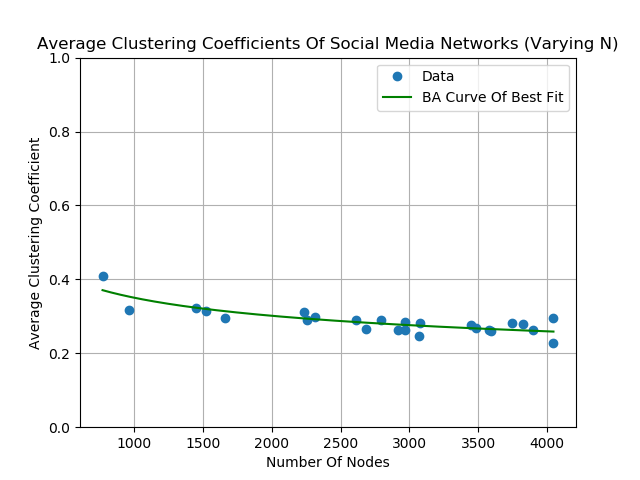
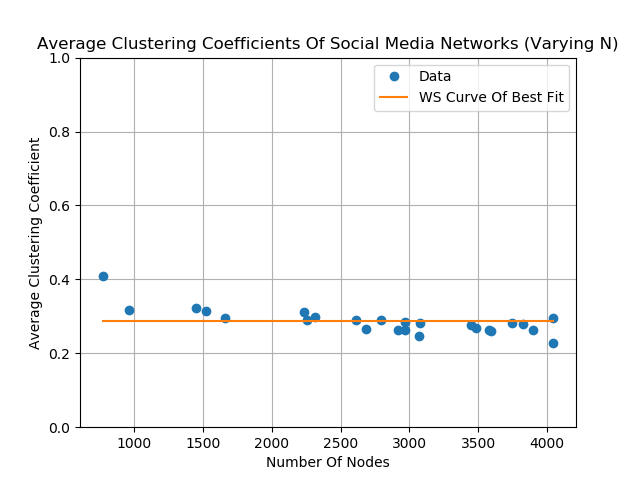
Final adjustments made in time for presentation. Only small world analysis and further analysis of the NetworkRepository data is required for the report.

diff --git a/NetworkRepository_AverageClusteringCoefficients.py b/NetworkRepository_AverageClusteringCoefficients.py
@@ -10,6 +10,9 @@ from SupportingFunctions import Distribution_Analysis_Functions
 from SupportingFunctions import Input_Output_Support_Functions as IO
 
 
+def FlatLine(xArray, yVal):
+    return (xArray*0 + yVal)
+
 #------------------------------------------------------------------------------------------
 # Important Arrays.
 #------------------------------------------------------------------------------------------
@@ -89,7 +92,7 @@ plt.figure()
 plt.grid()
 plt.plot(numberOfNodesArray, averageClusteringCoefficients, 'o', label='Data')
 
-
+'''
 # Fit a straight line to the data.
 estimateGradient = 0
 estimateIntercept = 0.3
@@ -101,16 +104,19 @@ popt, pcov = curve_fit(
                     (estimateGradient, estimateIntercept))
 xArray = np.linspace(numberOfNodesArray[0], numberOfNodesArray[len(numberOfNodesArray) - 1], 1000)
 #plt.plot(xArray, Distribution_Analysis_Functions.StraightLine(xArray, popt[0], popt[1]), label = 'WS Line Of Best Fit')
-
+'''
 def ExpectedScaleFreeClusteringCurve(xArray, constant, scalingFactor):
     return scalingFactor*(xArray**(-1*constant))
 
-popt_BA, pcov_BA = curve_fit(
-                    ExpectedScaleFreeClusteringCurve,
-                    numberArray_temp, clusteringArray_temp,
-                    (1, 1))
+numberArray_temp, clusteringArray_temp = IO.CleanRepeatedValuesOfNetworkRepData(numberOfNodesArray, averageClusteringCoefficients)
+xArray = np.linspace(numberOfNodesArray[0], numberOfNodesArray[len(numberOfNodesArray) - 1], 1000)
 
-plt.plot(xArray, ExpectedScaleFreeClusteringCurve(xArray, popt_BA[0], popt_BA[1]), c='g', label='BA Curve Of Best Fit')
+popt, pcov = curve_fit(
+                    FlatLine,
+                    numberArray_temp, clusteringArray_temp,
+                    0.1)
+
+plt.plot(xArray, FlatLine(xArray, popt[0]), label='WS Curve Of Best Fit')
 
 plt.ylim(0, 1)
 plt.legend(loc='best')
@@ -123,12 +129,12 @@ plt.close()
 print('')
 print('----------------------------------------------')
 
-pvar_BA = np.diag(pcov_BA)
+pvar = np.diag(pcov)
 
-print('Gamma = ' + str(popt_BA[0]) + ' +/- ' + str(np.sqrt(pvar_BA[0])))
-print('Scaling Factor = ' + str(popt_BA[1]) + ' +/- ' + str(np.sqrt(pvar_BA[1])))
+print('Gamma = ' + str(popt[0]) + ' +/- ' + str(np.sqrt(pvar[0])))
+#print('Scaling Factor = ' + str(popt_BA[1]) + ' +/- ' + str(np.sqrt(pvar_BA[1])))
 
-differences = clusteringArray_temp - ExpectedScaleFreeClusteringCurve(numberArray_temp, popt_BA[0], popt_BA[1])
+differences = clusteringArray_temp - FlatLine(numberArray_temp, popt[0])
 sum = 0
 for i in range(len(clusteringArray_temp)):
     sum += (differences[i])**2

diff --git a/NetworkRepository_DegreeDistributionAnalysis.py b/NetworkRepository_DegreeDistributionAnalysis.py
@@ -76,16 +76,16 @@ interceptArray = np.zeros(numberOfDatasets)
 interceptErrorsArray = np.zeros(numberOfDatasets)
 
 # 
-for i in range(0, numberOfDatasets):
+for i in range(0, 1):#numberOfDatasets):
     print ('started ' + str(i) + ' out of 24')
 
     fileDestination = 'NetworkRepository_Data/' + datasetDesignation[i] + '/' + datasetDesignation[i] + '_DegreeDistribution.txt'
     degreeArray, numberArray = IO.ReadPlottingDataFromTxtFile(fileDestination)
 
 
-    array1, array2 = IO.CleanArraysOfZeroValues(degreeArray, numberArray)
-    array1 = np.log(array1)
-    array2 = np.log(array2)
+    array1_tt, array2_tt = IO.CleanArraysOfZeroValues(degreeArray, numberArray)
+    array1 = np.log(array1_tt)
+    array2 = np.log(array2_tt)
 
     endPoint = len(array1) - 1 #Distribution_Analysis_Functions.FirstIndexContainingGivenValue(array2, 0)
     '''
@@ -128,12 +128,15 @@ for i in range(0, numberOfDatasets):
     plt.xlim(0, 6)
     plt.plot(array1, array2, 'o')
 
+    #plt.plot(array1, (-2)*array1 + np.log(array2_tt))
+
     #arrayfit1, arrayfit2 = IO.CleanArraysOfZeroValues(newArray, numberOfNodesArray[i] * Distribution_Analysis_Functions.DiracDeltaFunction(newArray, popt[0], popt[1]))
     #arrayfit1 = np.log(arrayfit1)
     #arrayfit2 = np.log(arrayfit2)
     #plt.plot(arrayfit1, arrayfit2)
     #secondDegreeArray = np.linspace(array1[0], array1[-1], 1000)
     #plt.plot(secondDegreeArray, np.log(Distribution_Analysis_Functions.DiracDeltaFunction(secondDegreeArray, popt[0], popt[1])))
+
 
     plt.xlabel("Degree")
     plt.ylabel("Number Of Nodes")
